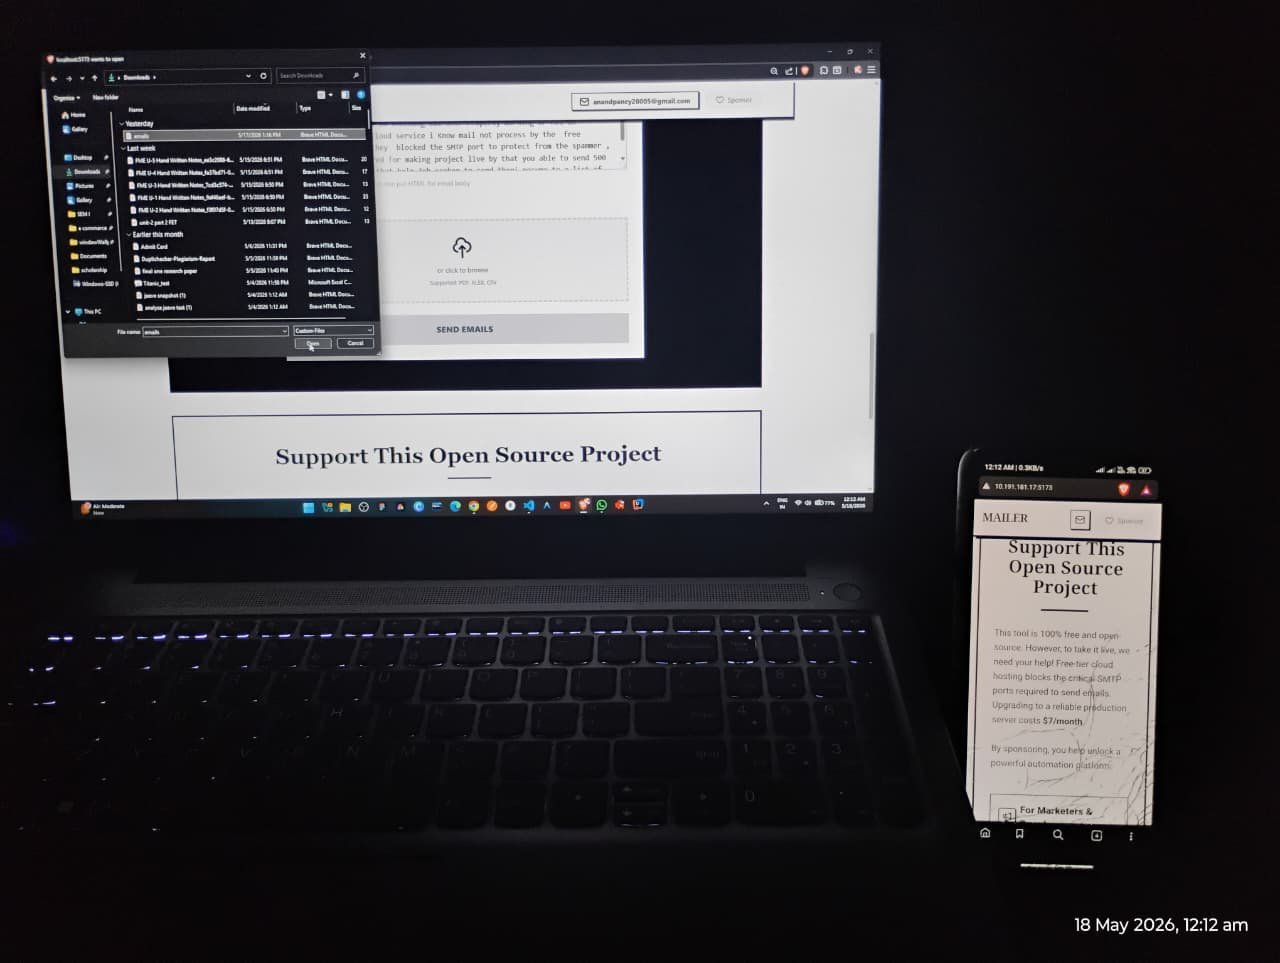
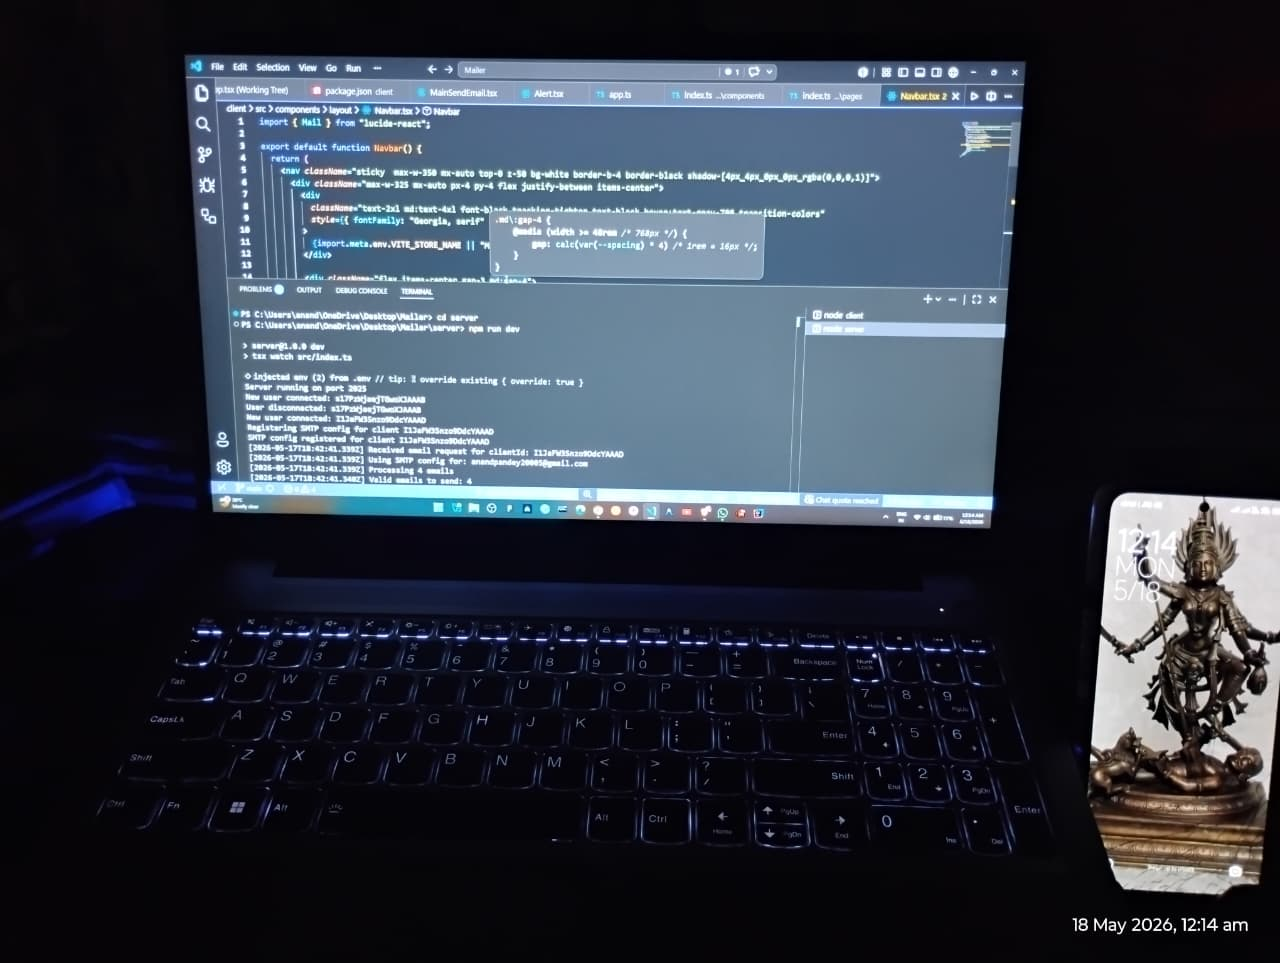
almost compelete v2

diff --git a/frontend/src/pages/Projectpage.tsx b/frontend/src/pages/Projectpage.tsx
@@ -1,5 +1,77 @@
+import { useNavigate } from "react-router-dom";
+import WorkCard from "../components/ui/Card/WorkCard";
+
+interface IWorkProps {
+  id: number;
+  image: string;
+  title: string;
+  description: string;
+  used: string[];
+  link: string;
+}
+
 const Projectpage = () => {
-  return <div className="max-w-325 mx-auto min-h-screen">under developement</div>;
+  let navigate = useNavigate();
+  const works: IWorkProps[] = [
+    {
+      id: 1,
+      image: "./homepageImage.jpeg",
+      title: "Mailer Engine",
+      description:
+        "A high-throughput, automated email campaign platform featuring real-time delivery analytics, custom HTML templates, and webhook integration.",
+      used: ["React", "TypeScript", "Node.js", "Tailwind CSS", "Redis"],
+      link: "https://github.com/yourusername/mailer",
+    },
+    {
+      id: 2,
+      image: "./homepageImage.jpeg",
+      title: "E-Commerce Gateway",
+      description:
+        "A lightning-fast storefront optimized for Core Web Vitals, offering seamless state management, dynamic routing, and instant checkout flows.",
+      used: ["Next.js", "GraphQL", "Tailwind CSS", "Stripe"],
+      link: "https://github.com/yourusername/ecommerce",
+    },
+  ];
+
+  return (
+    <div className="text-black flex flex-col justify-center px-6 py-20 sm:px-12 lg:px-24 max-w-6xl mx-auto">
+      <div className="flex flex-col gap-y-3">
+        <h2 className="text-xs font-bold tracking-widest uppercase text-neutral-400">
+          Development Journey
+        </h2>
+        <h1 className="text-3xl sm:text-4xl font-extrabold tracking-tight text-neutral-900">
+          My Works & Projects
+        </h1>
+        <p className="text-neutral-600 leading-relaxed mt-2 text-base ">
+          Explore a curated selection of applications built with dedication,
+          clean architecture, and uncompromising performance. I focus on
+          crafting seamless responsive experiences, optimizing core workflows,
+          and creating digital interactions that feel fast and intuitive on any
+          device.
+        </p>
+      </div>
+
+      <section className="mt-16 grid grid-cols-1 md:grid-cols-2 gap-x-8 gap-y-12 justify-items-center">
+        {works.map((item) => (
+          <WorkCard key={item.id} {...item} />
+        ))}
+      </section>
+      {/* cta */}
+      <section className="w-full max-w-325 mx-auto flex justify-center items-center flex-col gap-6 p-5 border rounded-2xl mt-6 bg-white hover:shadow-[5px_5px_0px_0px_rgba(0,0,0,1)] transition-all ease-in-out duration-500">
+        <p className="text-2xl font-extrabold ">Have a technical challange ?</p>
+        <p className="max-w-lg text-justify text-neutral-600">
+          I am Currenlty accepting new projects.Let's discuss how we can build
+          something exceptional together.
+        </p>
+        <button
+          onClick={() => navigate("/my-experience#get-in-touch")}
+          className="px-6 py-3 bg-white text-black font-medium rounded-lg border border-neutral-300 hover:bg-neutral-50 text-center hover:shadow-[5px_5px_0px_0px_rgba(0,0,0,1)] transition-all ease-in-out duration-500"
+        >
+          Let's Talk
+        </button>
+      </section>
+    </div>
+  );
 };
 
 export default Projectpage;

diff --git a/frontend/src/pages/Homepage.tsx b/frontend/src/pages/Homepage.tsx
@@ -1,3 +1,4 @@
+import { useEffect, useState } from "react";
 import { Link, useNavigate } from "react-router-dom";
 
 const Homepage = () => {
@@ -17,8 +18,13 @@ const Homepage = () => {
   ];
   let navigate = useNavigate();
 
+  const [showFallback, setShowFallback] = useState(false);
+
   return (
     <div className="min-h-screen text-black flex flex-col justify-center px-6 py-20 sm:px-12 lg:px-24 max-w-7xl mx-auto">
+      <article>
+        <title>Namaste | ANAND PANDEY</title>
+      </article>
       {/* Hero Section */}
       <section className="relative max-w-4xl mx-auto mt-12 flex flex-col items-center text-center gap-y-6">
         <span className="px-4 py-1.5 bg-black/5 text-xs font-semibold tracking-wider uppercase rounded-full border border-black/10">
@@ -44,7 +50,7 @@ const Homepage = () => {
         <div className="mt-8 flex flex-col sm:flex-row gap-4 w-full sm:w-auto">
           <Link
             to="/my-work"
-            className="px-6 py-3 bg-black text-white font-medium rounded-lg hover:bg-neutral-800 shadow-sm text-center hover:shadow-[5px_5px_0px_0px_rgba(0,0,0,1)] transition-all ease-in-out duration-500"
+            className="px-6 py-3 bg-black text-white font-medium rounded-lg hover:bg-neutral-800 active:bg-neutral-800 shadow-sm text-center hover:shadow-[5px_5px_0px_0px_rgba(0,0,0,1)] active:shadow-[5px_5px_0px_0px_rgba(0,0,0,1)] transition-all ease-in-out duration-500"
           >
             View My Work
           </Link>
@@ -110,6 +116,41 @@ const Homepage = () => {
           </div>
         </div>
       </section>
+
+      {/* linkedin post */}
+      <div className=" w-full max-w-325 hidden sm:block mt-12   space-y-6 overflow-hidden">
+        <div className="px-8">
+          <p className="text-xs text-neutral-600 uppercase">
+            professionl journey
+          </p>
+          <p className="text-4xl font-extrabold">LinkedIn Latest Posts</p>
+        </div>
+        {showFallback ? (
+          <div className="border-none px-5 py-12 text-center">
+            <p className="text-neutral-600">
+              Unable to load LinkedIn posts at the moment. Please check back
+              later or visit my{" "}
+              <a
+                href="https://www.linkedin.com/in/anandpandey2005/"
+                target="_blank"
+                rel="noopener noreferrer"
+                className="text-black font-medium underline hover:text-neutral-700"
+              >
+                LinkedIn profile
+              </a>
+              .
+            </p>
+          </div>
+        ) : (
+          <iframe
+            src="https://widgets.sociablekit.com/linkedin-profile-posts/iframe/25683168"
+            width="103%"
+            height="600"
+            className="border-none px-5"
+            onError={() => setShowFallback(true)}
+          ></iframe>
+        )}
+      </div>
     </div>
   );
 };

diff --git a/frontend/src/components/ui/Card/WorkCard.tsx b/frontend/src/components/ui/Card/WorkCard.tsx
@@ -1,0 +1,69 @@
+import { ArrowUpRight } from "lucide-react"; // Optional: npm i lucide-react, or use the raw SVG below
+
+interface IWorkProps {
+  id: number;
+  image: string;
+  title: string;
+  description: string;
+  used: string[];
+  link: string;
+}
+
+const WorkCard = (props: IWorkProps) => {
+  return (
+    <div className="relative w-full max-w-md border border-neutral-200 rounded-2xl hover:shadow-[5px_5px_0px_0px_rgba(0,0,0,1)] transition-all ease-in-out duration-500 bg-black hover:bg-white overflow-hidden pb-20 group">
+      <div className="w-full overflow-hidden mb-4">
+        <img
+          src={props.image}
+          alt={props.title}
+          className="w-full  object-cover grayscale group-hover:grayscale-0 group-hover:scale-110 transition-all ease-in-out duration-500"
+        />
+      </div>
+
+      <div className="flex flex-col justify-start px-5">
+        <div className="flex flex-wrap gap-2 mb-3">
+          {props.used.map((tech, index) => (
+            <span
+              key={index}
+              className="px-3 py-1 bg-neutral-100 text-neutral-700 rounded-full text-xs font-medium"
+            >
+              {tech}
+            </span>
+          ))}
+        </div>
+
+        <h3 className="text-2xl font-bold text-white  group-hover:text-neutral-600 mb-2">{props.title}</h3>
+
+        <p className="text-sm text-neutral-600 leading-relaxed">
+          {props.description}
+        </p>
+      </div>
+
+      <a
+        href={props.link}
+        target="_blank"
+        rel="noopener noreferrer"
+        className="absolute bottom-5 right-5 p-3 rounded-full bg-black text-white hover:bg-neutral-800 transition-colors duration-300 flex items-center justify-center group"
+        aria-label={`View ${props.title}`}
+      >
+        <svg
+          xmlns="http://www.w3.org/2000/svg"
+          fill="none"
+          viewBox="0 0 24 24"
+          strokeWidth={2.5}
+          stroke="currentColor"
+          className="w-5 h-5 transform group-hover:translate-x-0.5 group-hover:-translate-y-0.5 transition-transform"
+        >
+          <path
+            strokeLinecap="round"
+            strokeLinejoin="round"
+            pathLength="1"
+            d="M4.5 19.5l15-15m0 0H8.25m11.25 0v11.25"
+          />
+        </svg>
+      </a>
+    </div>
+  );
+};
+
+export default WorkCard;

diff --git a/frontend/src/components/layout/Navbar/Navbar.tsx b/frontend/src/components/layout/Navbar/Navbar.tsx
@@ -61,9 +61,7 @@ const Navbar = () => {
                     key={link.name}
                     to={link.path}
                     className={`flex items-center gap-2 rounded-xl p-2 font-medium transition-colors duration-200 group ${
-                      isCurrentActive
-                        ? "text-white bg-neutral-600" // Kept hover style intact permanently
-                        : "text-neutral-700 hover:text-white hover:bg-neutral-600"
+                      isCurrentActive ? "text-neutral-600" : "text-black"
                     }`}
                   >
                     <Icon
@@ -110,9 +108,7 @@ const Navbar = () => {
                       to={link.path}
                       onClick={() => setIsOpen(false)}
                       className={`flex items-center gap-3 px-4 py-2 rounded-lg font-medium transition-all ${
-                        isCurrentActive
-                          ? "bg-white/20 text-blue-600" // Kept mobile hover style intact permanently
-                          : "text-neutral-700 hover:bg-white/20 hover:text-blue-600"
+                        isCurrentActive ? "text-neutral-600" : "text-black"
                       }`}
                     >
                       <Icon className="w-5 h-5" />

diff --git a/frontend/src/pages/Experiencepage.tsx b/frontend/src/pages/Experiencepage.tsx
@@ -67,7 +67,7 @@ const Experiencepage = () => {
   return (
     <div className=" text-black flex flex-col justify-center px-6 py-20 sm:px-12 lg:px-24 max-w-6xl mx-auto">
       <article>
-        <title>My Experieces AND Get In Touch | ANAND PANDEY</title>
+        <title>My Experieces | ANAND PANDEY</title>
       </article>
       <div className="flex flex-col gap-y-5">
         <h2 className="text-xs font-bold tracking-widest uppercase text-neutral-400">
@@ -200,7 +200,7 @@ const Experiencepage = () => {
               name="message"
               id="message"
               placeholder="I  want collaborate with you"
-              className="outline-none border-b  border-neutral-300 py-2  focus:border-b-green-400 transition-all ease-in-out duration-500"
+              className="outline-none  border-b  border-neutral-300 py-2  focus:border-b-green-400 transition-all ease-in-out duration-500"
             ></textarea>
           </div>
 

diff --git a/frontend/src/index.css b/frontend/src/index.css
@@ -12,7 +12,19 @@ body {
   font-size: 1rem;
   word-spacing: 1px;
 }
+::selection {
+  background-color: rgba(82, 82, 82, 0.95);
+  color: #ffffff;
+  text-shadow: 0 0 4px rgba(255, 255, 255, 0.4);
+}
+::-webkit-scrollbar {
+  display: none;
+}
 
+:focus-visible {
+  outline: 2px solid #525252;
+  outline-offset: 2px;
+}
 li {
   list-style: none;
 }

diff --git a/frontend/vite.config.ts b/frontend/vite.config.ts
@@ -8,6 +8,7 @@ const prerenderRoutes = ['/', '/experience', '/project']
 const sitemapRoutes = ['experience', 'project']
 
 export default defineConfig({
+
   plugins: [
     react(),
     tailwindcss(),
